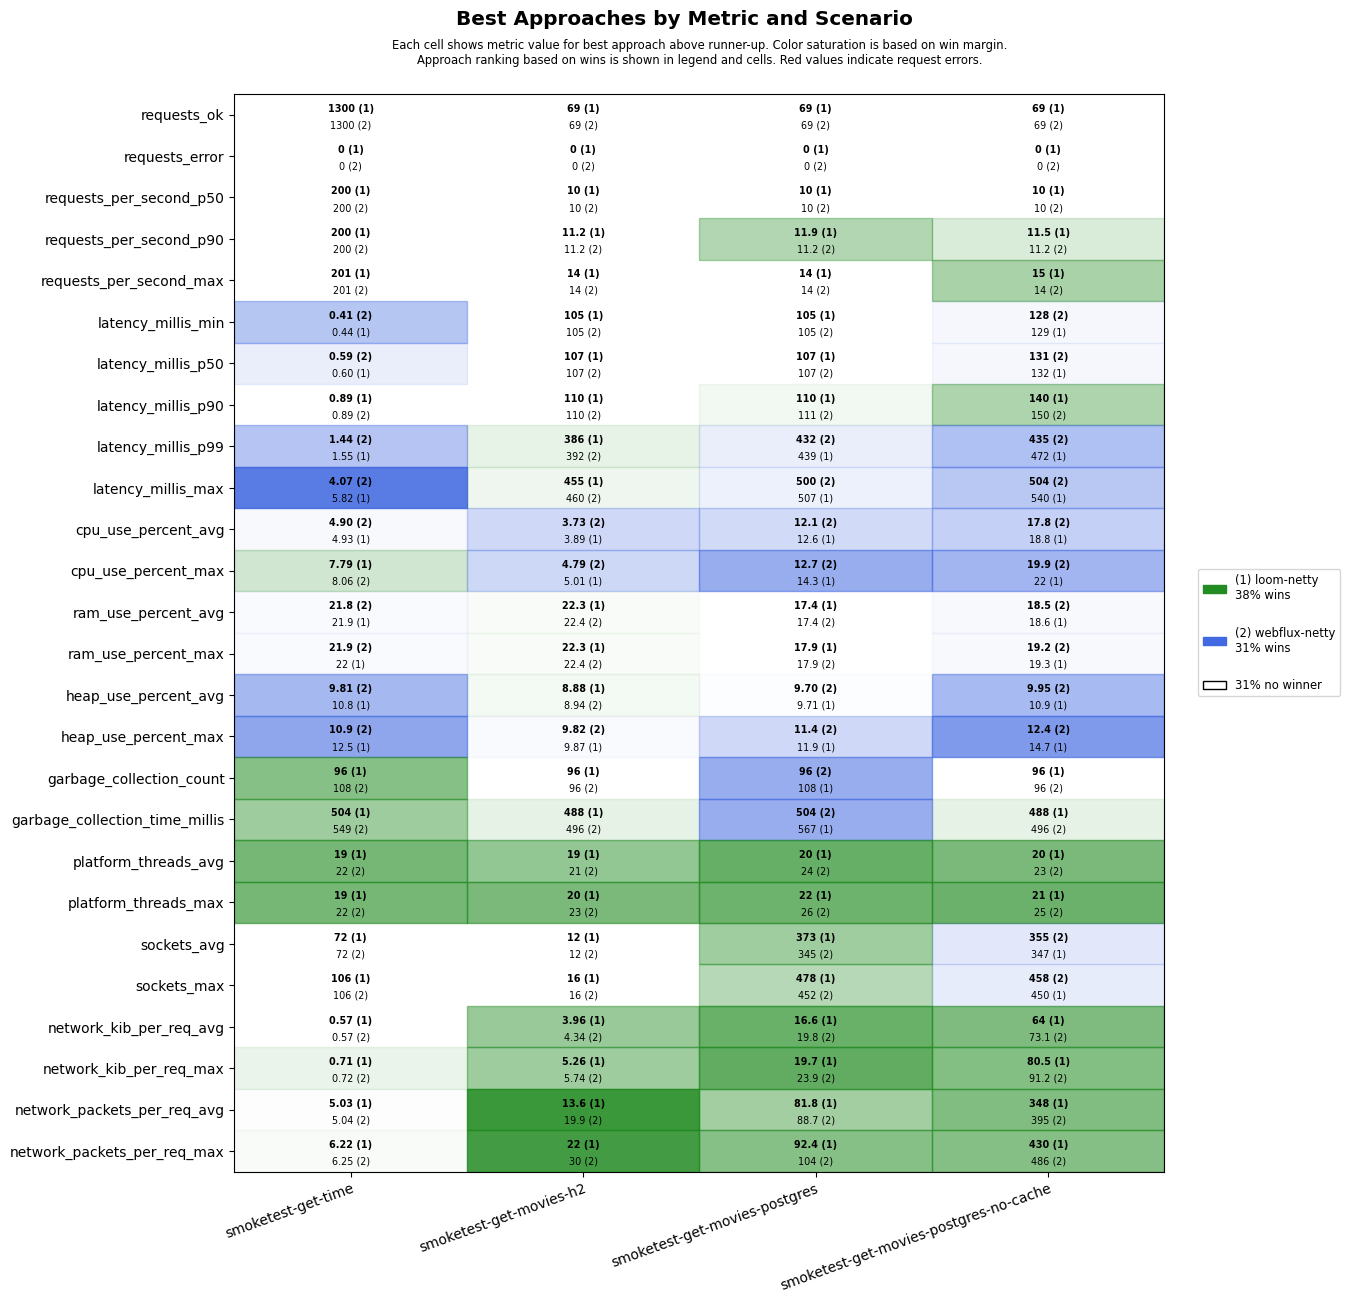
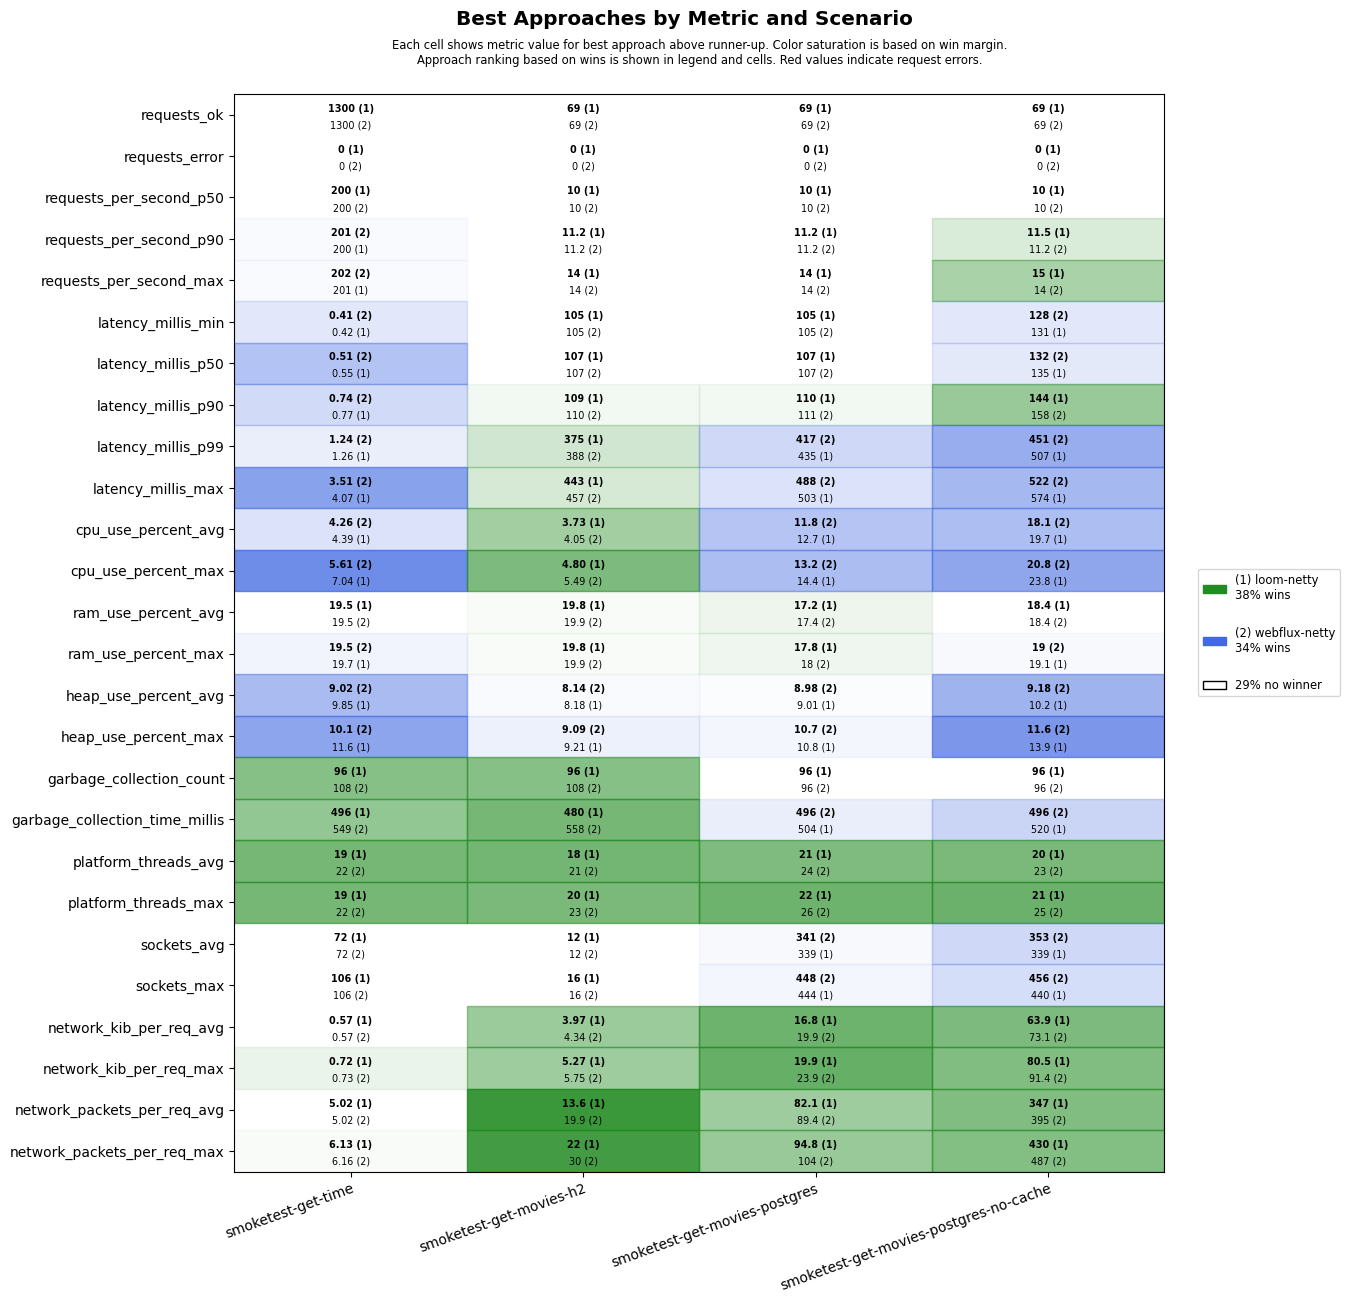
Apply automatic changes

diff --git a/results/ci/scenarios-smoketest/Ubuntu-22.04/java-25/results.md b/results/ci/scenarios-smoketest/Ubuntu-22.04/java-25/results.md
@@ -4,23 +4,23 @@
 
 | **Name**                | **Value** |
 |-------------------------|-----------|
-| **Start (UTC)** | 2025-10-31 14:31:37 |
-| **End (UTC)** | 2025-10-31 14:37:09 |
-| **Duration (hh:mm:ss)** | 00:05:32 |
+| **Start (UTC)** | 2026-05-08 22:08:18 |
+| **End (UTC)** | 2026-05-08 22:13:52 |
+| **Duration (hh:mm:ss)** | 00:05:34 |
 
 ## System Specs
 
 | **Name**                | **Value** |
 |-------------------------|-----------|
-| **Java** | OpenJDK 64-Bit Server VM Corretto-25.0.1.8.1 (build 25.0.1+8-LTS, mixed mode, sharing) |
-| **Spring Boot** | 3.5.7 |
+| **Java** | OpenJDK 64-Bit Server VM Corretto-25.0.3.9.1 (build 25.0.3+9-LTS, mixed mode, sharing) |
+| **Spring Boot** | 3.5.14 |
 | **Python** | 3.10.12 |
 | **OS** | Ubuntu 22.04.5 LTS |
-| **Kernel** | 6.8.0-1036-azure |
+| **Kernel** | 6.8.0-1044-azure |
 | **CPU** | AMD EPYC 7763 64-Core Processor |
 | **CPU Cores** | 4 |
 | **RAM** | 15Gi total, 13Gi available |
-| **Disk** | 159G total, 92G available |
+| **Disk** | 158G total, 99G available |
 
 ## Scenarios
 